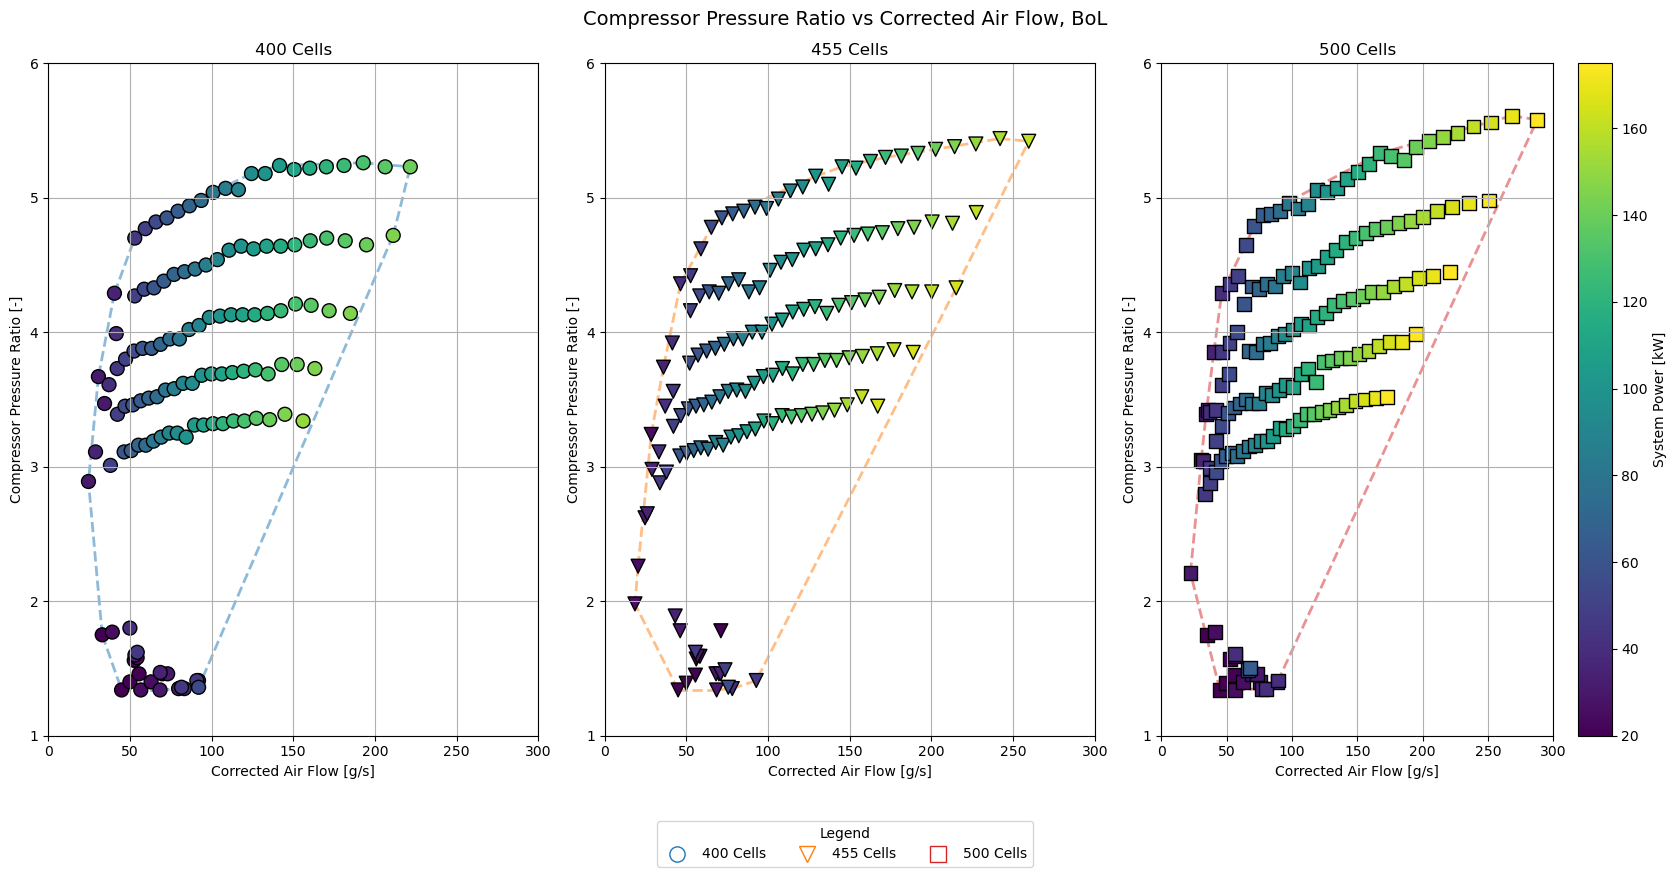
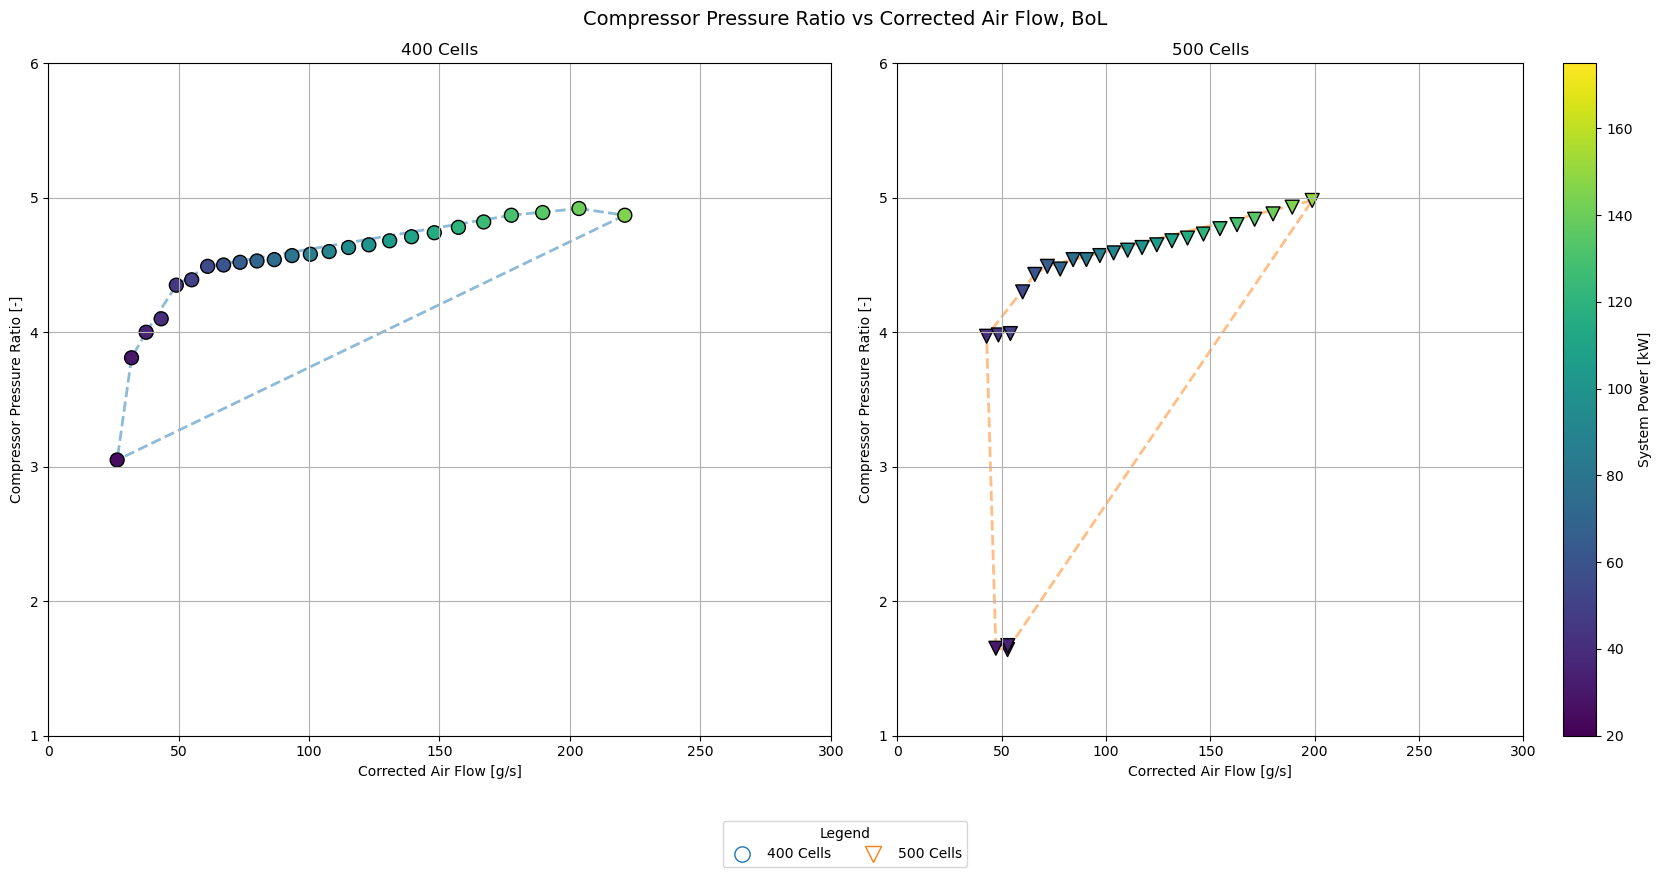
refactor: get different cell counts from csv

diff --git a/05_overall/05_fcs_dimensioning_model/Postprocessing/get_plots.py b/05_overall/05_fcs_dimensioning_model/Postprocessing/get_plots.py
@@ -60,13 +60,20 @@ def sort_prefilter_df(df, current_upper_bound):
 
 # Split the data based on 'Specified Cell Count'
 def split_data_based_on_cell_count(df): 
-    return (df[df['Specified Cell Count'] == count] for count in [400, 455, 500])
+    return  [group for _, group in df.groupby('Specified Cell Count')]
+
+
+def get_unique_values(df, column_name): 
+    return df[column_name].unique()
+
+
 
 
 def analyze_data(_file_path1, saving=True):
     
     # Load the CSV file into a DataFrame
     df1 = pd.read_csv(_file_path1)
+    #df1 = df1.loc[df1['Specified Cell Count'] != 455]
 
     # Change the working directory to the directory containing the .csv file
     file_dir = os.path.dirname(_file_path1)
@@ -88,11 +95,15 @@ def analyze_data(_file_path1, saving=True):
     #df1 =df1[df1["converged (t/f)"] == True]
     df1 = sort_prefilter_df(df1, current_upper_bound)
 
+    # get flight level, weighting, cellcounts from csv
+    fl_set = get_unique_values(df1, 'Flight Level (100x ft)')
+    weighting = get_unique_values(df1, 'weighting ([0,1])')
+    cellcounts = get_unique_values(df1, 'Specified Cell Count')
     
     # Split the data
-    df_400, df_455, df_500 = split_data_based_on_cell_count(df1)
-    data   = [     df_400,       df_455,     df_500]
-    titles = ['400 Cells',  '455 Cells','500 Cells']
+    data = split_data_based_on_cell_count(df1)
+    titles = [f'{cells} Cells' for cells in cellcounts]
+
     colors = [ "tab:blue", "tab:orange",  "tab:red"]
     markers= ["o", "v", "s"]
     markers_oL = ["o","P"]
@@ -207,8 +218,8 @@ def analyze_data(_file_path1, saving=True):
         'vmin' : 125, 
         'vmax' : 175, 
     }
-    plot_h2_supply_vs_FL(plot_params_supply_vs_FL, df1, markers, fl_max, weighting, show_plot=show_plot, saving=saving, mode="bol")
-    plot_h2_supply_vs_FL(plot_params_supply_vs_FL, df1, markers, fl_max, weighting, show_plot=show_plot, saving=saving, mode="eol")
+    plot_h2_supply_vs_FL(plot_params_supply_vs_FL, df1, markers, fl_max, weighting, cellcounts, show_plot=show_plot, saving=saving, mode="bol")
+    plot_h2_supply_vs_FL(plot_params_supply_vs_FL, df1, markers, fl_max, weighting, cellcounts, show_plot=show_plot, saving=saving, mode="eol")
 
     ############Plot Weight estimate
     #Weight/Power Factor
@@ -224,7 +235,8 @@ def analyze_data(_file_path1, saving=True):
                          "Turbine Power (kW)":      0}
     
     # New grouped, stacked bar chart function
-    plot_system_mass_estimate(plot_params_system_mass_estimate, data, titles, colors, componentsP_dict, fl_set, markers, weighting, show_plot=show_plot, saving=saving, mode="bol")
+    ## NOCHMAL ANSCHAUEN
+    #plot_system_mass_estimate(plot_params_system_mass_estimate, data, titles, colors, componentsP_dict, fl_set, markers, weighting, show_plot=show_plot, saving=saving, mode="bol")
     #plot_system_mass_estimate(plot_params_system_mass_estimate, data, titles, colors, componentsP_dict, fl_set, markers, weighting, show_plot=show_plot, saving=saving, mode="eol")
     
     ###########PLOT: Compressormap
@@ -287,7 +299,7 @@ def analyze_data(_file_path1, saving=True):
 
 if __name__ == "__main__":
     parser = argparse.ArgumentParser(description="Main script to call get_plots.py")
-    parser.add_argument("-f", "--filepath", type=str, help="path to csv file", default=r"..\test_data\optimized_parameters_20-175kW_400-500_0-120ft 1.csv")
+    parser.add_argument("-f", "--filepath", type=str, help="path to csv file", default=r"..\test_data\optimized_parameters_25-150kW_400-500_100-100ft.csv")
 
     parser.add_argument("-s", "--saving", type=str, choices=["True", "False"], default="True", help="Whether to save plots as .png files")
     args = parser.parse_args()

diff --git a/05_overall/05_fcs_dimensioning_model/Postprocessing/plot_h2_supply_vs_FL.py b/05_overall/05_fcs_dimensioning_model/Postprocessing/plot_h2_supply_vs_FL.py
@@ -9,7 +9,7 @@ from get_plot_settings import *
 
 
 # %% PLOT: H2 supply over flight level all in one
-def plot_h2_supply_vs_FL(plot_params, df1, markers, fl_max, weighting, show_plot, saving=True, mode="eol"):
+def plot_h2_supply_vs_FL(plot_params, df1, markers, fl_max, weighting, cells, show_plot, saving=True, mode="eol"):
     """
     Plot of system power vs (system power/hydrogen sonsumption) with polynomial fit.
     
@@ -19,9 +19,8 @@ def plot_h2_supply_vs_FL(plot_params, df1, markers, fl_max, weighting, show_plot
     - saving: Boolean, if True, saves the plots as PNG files.
     - mode: string "eol" or "bol", setting a filter to see eol or bol data.
     """
-    # List of cell counts and corresponding icons
-    cells = [400, 455, 500]
-    markers = ["o", "v", "s"]
+
+
 
     # Define power levels to highlight
     highlight_powers = [125, 150, 175]

diff --git a/05_overall/05_fcs_dimensioning_model/batch_run.py b/05_overall/05_fcs_dimensioning_model/batch_run.py
@@ -94,7 +94,7 @@ if __name__ == '__main__':
     parameters = list(itertools.product(range_power, range_cellcount, range_fl, range_turbine, range_map, range_eol, range_DoE_constraint, weighting))
     
     # Start parallel execution using ProcessPoolExecutor
-    max_workers = min(26, len(parameters))  # Define the number of processes based on available resources
+    max_workers = min(4, len(parameters))  # Define the number of processes based on available resources
     
     with ProcessPoolExecutor(max_workers=max_workers) as executor:
         futures = {executor.submit(run_subprocess, param): param for param in parameters}

diff --git a/05_overall/05_fcs_dimensioning_model/Postprocessing/plot_compressor_map.py b/05_overall/05_fcs_dimensioning_model/Postprocessing/plot_compressor_map.py
@@ -38,8 +38,9 @@ def plot_compressor_map(plot_params, data, titles, colors, markers, fl_set, weig
     N = 3 # Specify scaling factor N
     
     scaling_factors = [1 - i/N for i in range(N)]  # Progressive shrinking from 1 to 0
+    non_empty_data = [df for df in data if not df.empty]
                 
-    fig, axs = plt.subplots(nrows=1, ncols=3, figsize=(17, 8))
+    fig, axs = plt.subplots(nrows=1, ncols=len(non_empty_data), figsize=(17, 8))
     axs = axs.flatten()  # Flatten the 2D array of axes to easily iterate through
     
     # Create a colormap and normalize for the color gradient

diff --git a/05_overall/05_fcs_dimensioning_model/basic_physics.py b/05_overall/05_fcs_dimensioning_model/basic_physics.py
@@ -5,7 +5,7 @@ from parameters import Physical_Parameters
 import CoolProp.CoolProp as CP
 import CoolProp.HumidAirProp as HAP
 from scipy.constants import physical_constants
-import psychro.lib as lib
+import psychrolib as lib
 
 
 
